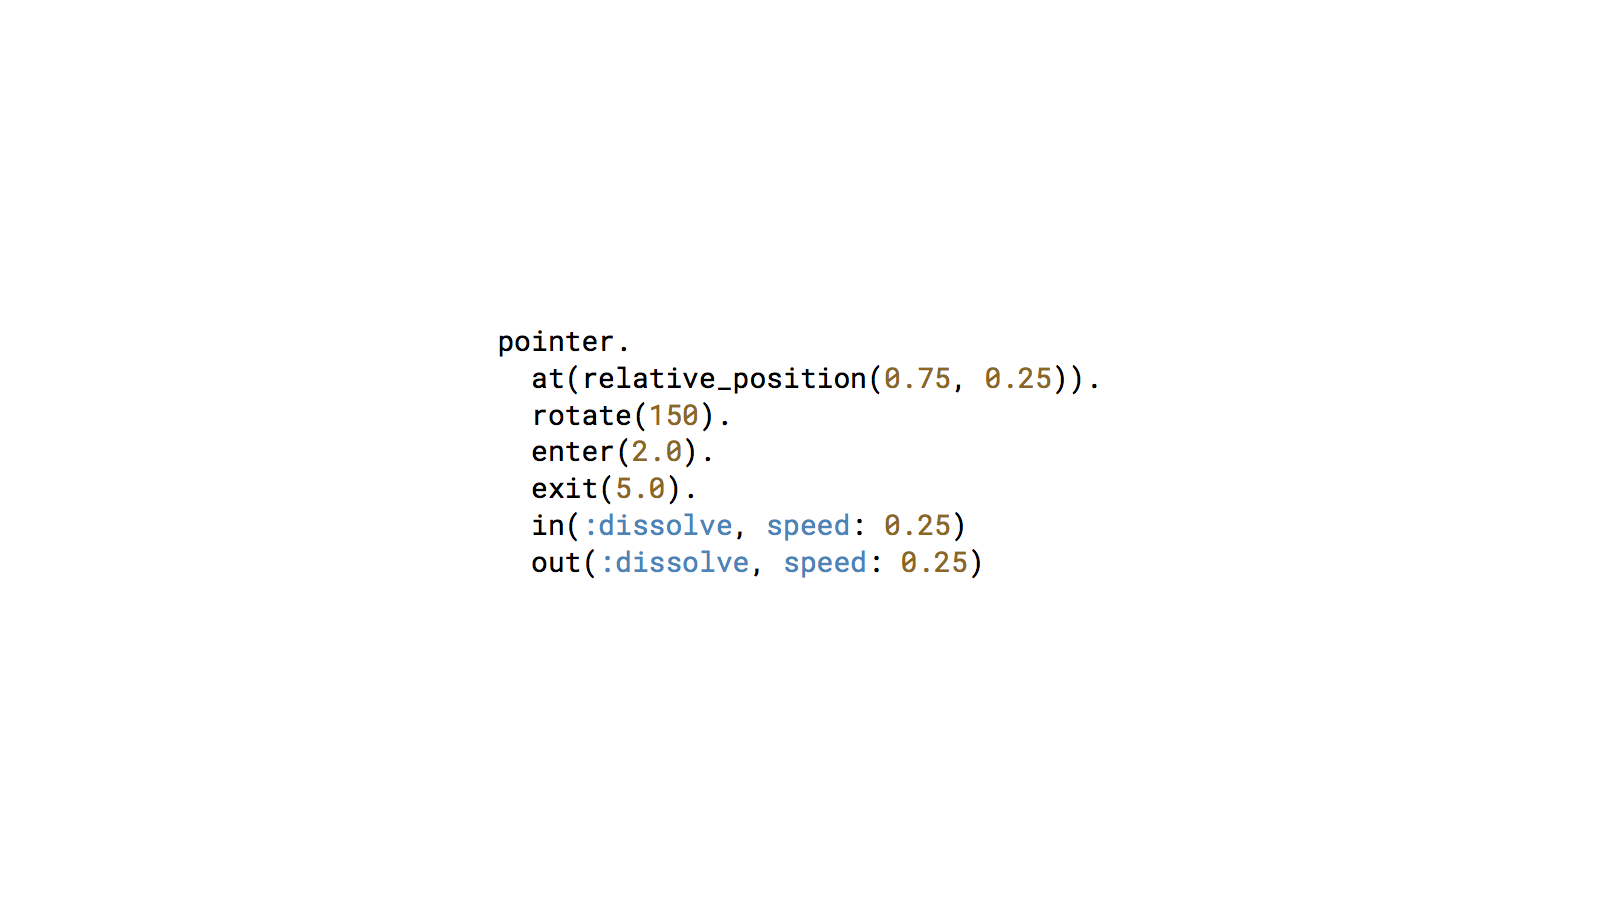
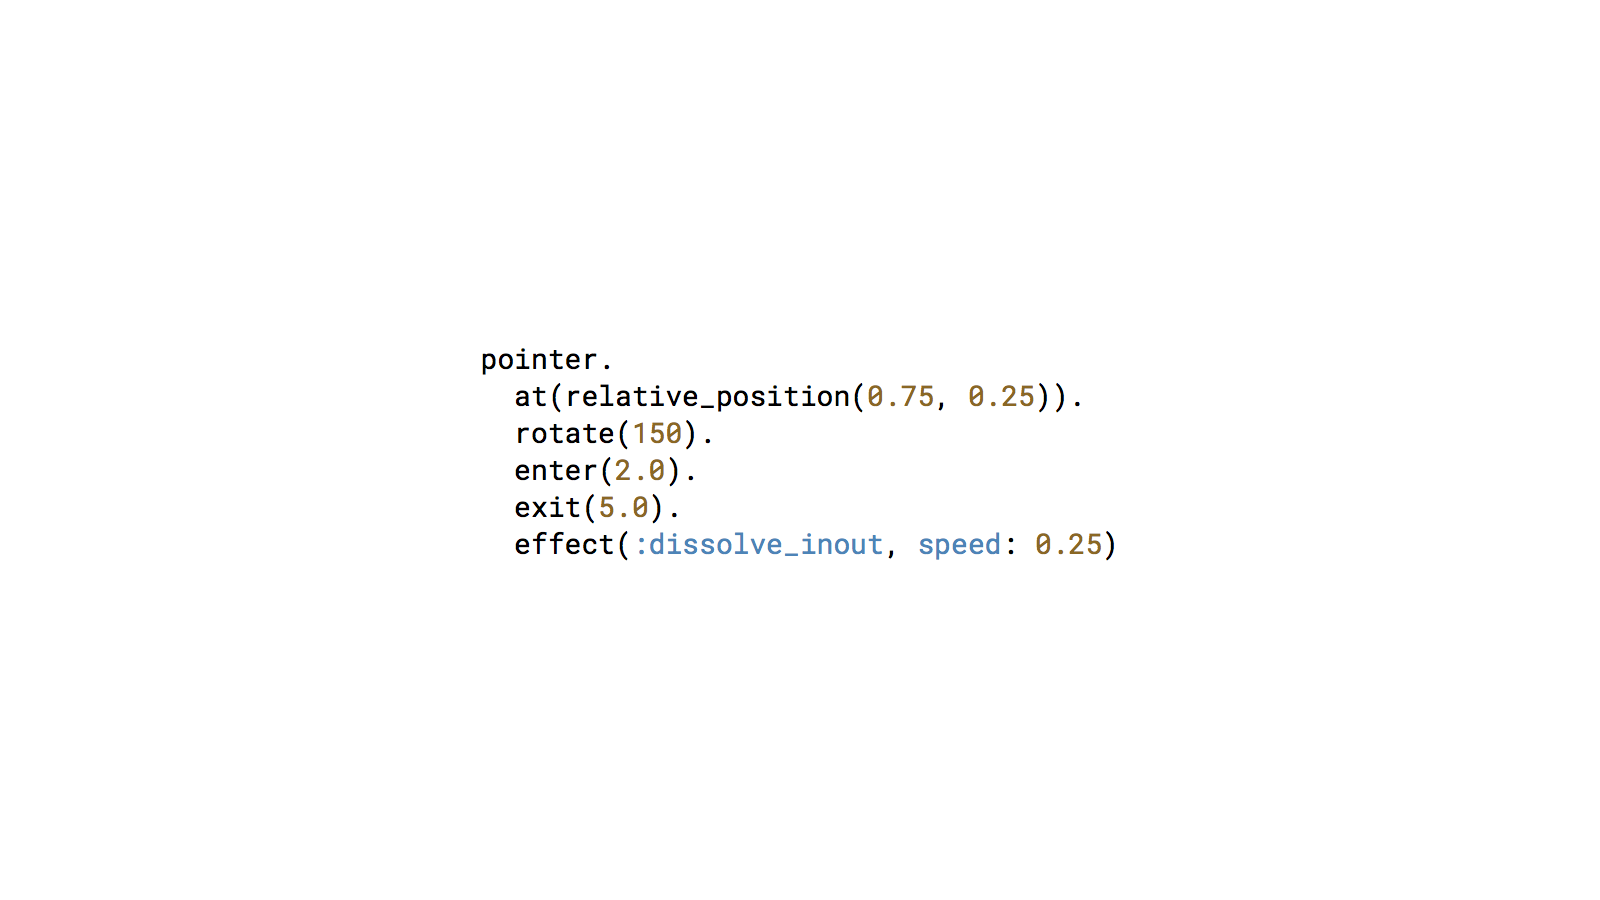
Update tutorial, add dissolve_inout effect

Changed region(s): [[0.3125, 0.3733, 0.6875, 0.6533]]

diff --git a/examples/tutorial.rb b/examples/tutorial.rb
@@ -144,8 +144,7 @@ scene 'Dissolve In' do
       rotate(150).
       enter(voice_in + arrow_start - start).
       exit(voice_in + arrow_finish - start).
-      in(:dissolve, speed: 0.25).
-      out(:dissolve, speed: 0.25).
+      effect(:dissolve_inout, speed: 0.25).
       at(first_elem[0]         => first_elem[1],
          enter_cmd[0] - 0.25   => first_elem[1],
          enter_cmd[0]          => enter_cmd[1],
@@ -162,6 +161,10 @@ scene 'Pointer' do
     an arrow at it. This is easy to do in Castaway, too.
   SCRIPT
 
+  # time relative to beginning of voice track
+  arrow_start = time('0:54.18')
+  arrow_end   = time('0:55.26')
+
   plan do
     still('pointer-slide.png').enter(-0.5).in(:dissolve, speed: 0.5)
 
@@ -169,10 +172,9 @@ scene 'Pointer' do
       at(relative_to_image('pointer-slide.png').position(923, 337)).
       rotate(145).
       scale(0.75).
-      enter(voice_in + time('0:54.18') - start).
-      exit(voice_in + time('0:55.26') - start).
-      in(:dissolve, speed: 0.25).
-      out(:dissolve, speed: 0.25)
+      enter(voice_in + arrow_start - start).
+      exit(voice_in + arrow_end - start).
+      effect(:dissolve_inout, speed: 0.25)
   end
 end
 
@@ -185,22 +187,21 @@ scene 'Prepare Arrow' do
   SCRIPT
 
   hot_spot = voice_in + time('1:07.75') - start
+  hot_spot_life = 2
 
   plan do
     matte(:white).enter(-0.5).in(:dissolve, speed: 0.5)
     arrow = sprite('arrow.png').
             gravity(:center).enter(0.5).in(:dissolve, speed: 0.5)
 
-    rel = relative_to_image('arrow.png')
     pos = arrow.position[0] + Point.new(152, 12)
 
     pointer.
       rotate(150).
       at(pos).
       enter(hot_spot).
-      exit(hot_spot + 2).
-      in(:dissolve, speed: 0.25).
-      out(:dissolve, speed: 0.25)
+      exit(hot_spot + hot_spot_life).
+      effect(:dissolve_inout, speed: 0.25)
   end
 end
 
@@ -228,8 +229,7 @@ scene 'Declare Pointer' do
       rotate(150).
       enter(voice_in + arrow_start - start).
       exit(voice_in + arrow_end - start).
-      in(:dissolve, speed: 0.25).
-      out(:dissolve, speed: 0.25).
+      effect(:dissolve_inout, speed: 0.25).
       at(hotspot[0]        => hotspot[1],
          relsize[0] - 0.25 => hotspot[1],
          relsize[0]        => relsize[1])
@@ -328,7 +328,7 @@ scene 'Path Command' do
     pointer.
       rotate(150).
       enter(voice_in + arrow_start - start).
-      at(relative_to_image('path-command.png').position(1120, 390)).
+      at(relative_to_image('path-command.png').position(1160, 390)).
       in(:dissolve, speed: 0.25)
   end
 end
@@ -404,8 +404,7 @@ scene 'Sound - Modify' do
       rotate(150).
       enter(voice_in + arrow_start - start).
       exit(voice_in + arrow_end - start).
-      in(:dissolve, speed: 0.25).
-      out(:dissolve, speed: 0.25).
+      effect(:dissolve_inout, speed: 0.25).
       at(fadein1[0]         => fadein1[1],
          fadeout1[0] - 0.25 => fadein1[1],
          fadeout1[0]        => fadeout1[1],

diff --git a/lib/castaway/delta.rb b/lib/castaway/delta.rb
@@ -64,8 +64,15 @@ module Castaway
 
     def _legs
       @_legs ||= begin
-        sorted_t = @definition.keys.map { |t| _reify(t) }.sort
-        sorted_v = sorted_t.map { |t| _reify(@definition[t]) }
+        reified_t = @definition.keys.
+                    map { |t| [t, _reify(t)] }.
+                    sort_by(&:last)
+        original_t = reified_t.map(&:first)
+        sorted_t = reified_t.map(&:last)
+
+        # we have to key off of the original (unreified) t,
+        # because that's what the original definition has uses.
+        sorted_v = original_t.map { |t| _reify(@definition[t]) }
 
         if sorted_t.length == 1
           [ ConstantLeg.new(sorted_v.first) ]

diff --git a/lib/castaway/effect.rb b/lib/castaway/effect.rb
@@ -18,6 +18,15 @@ module Castaway
       element.alpha(element.tail(options[:speed]) => 1.0, element.tail => 0.0)
     end
 
+    register :dissolve_inout do |element, options|
+      speed = options[:speed] || 1.0
+      element.alpha(
+        0                   => 0.0,
+        speed               => 1.0,
+        element.tail(speed) => 1.0,
+        element.tail        => 0.0)
+    end
+
     register :pan do |element, options|
       dx = case options[:horizontal]
            when nil then 0

diff --git a/examples/snippets/path-command.rb b/examples/snippets/path-command.rb
@@ -1,7 +1,7 @@
 pointer.
   rotate(150).
-  path(0.0 => relative_position(0.25, 0.25),
-       0.5 => relative_position(0.75, 0.25),
-       1.0 => relative_position(0.75, 0.75),
-       1.5 => relative_position(0.25, 0.75),
-       2.0 => relative_position(0.25, 0.25))
+  at(0.0 => relative_position(0.25, 0.25),
+     0.5 => relative_position(0.75, 0.25),
+     1.0 => relative_position(0.75, 0.75),
+     1.5 => relative_position(0.25, 0.75),
+     2.0 => relative_position(0.25, 0.25))

diff --git a/examples/snippets/dissolve-pointer.rb b/examples/snippets/dissolve-pointer.rb
@@ -3,5 +3,4 @@ pointer.
   rotate(150).
   enter(2.0).
   exit(5.0).
-  in(:dissolve, speed: 0.25)
-  out(:dissolve, speed: 0.25)
+  effect(:dissolve_inout, speed: 0.25)
